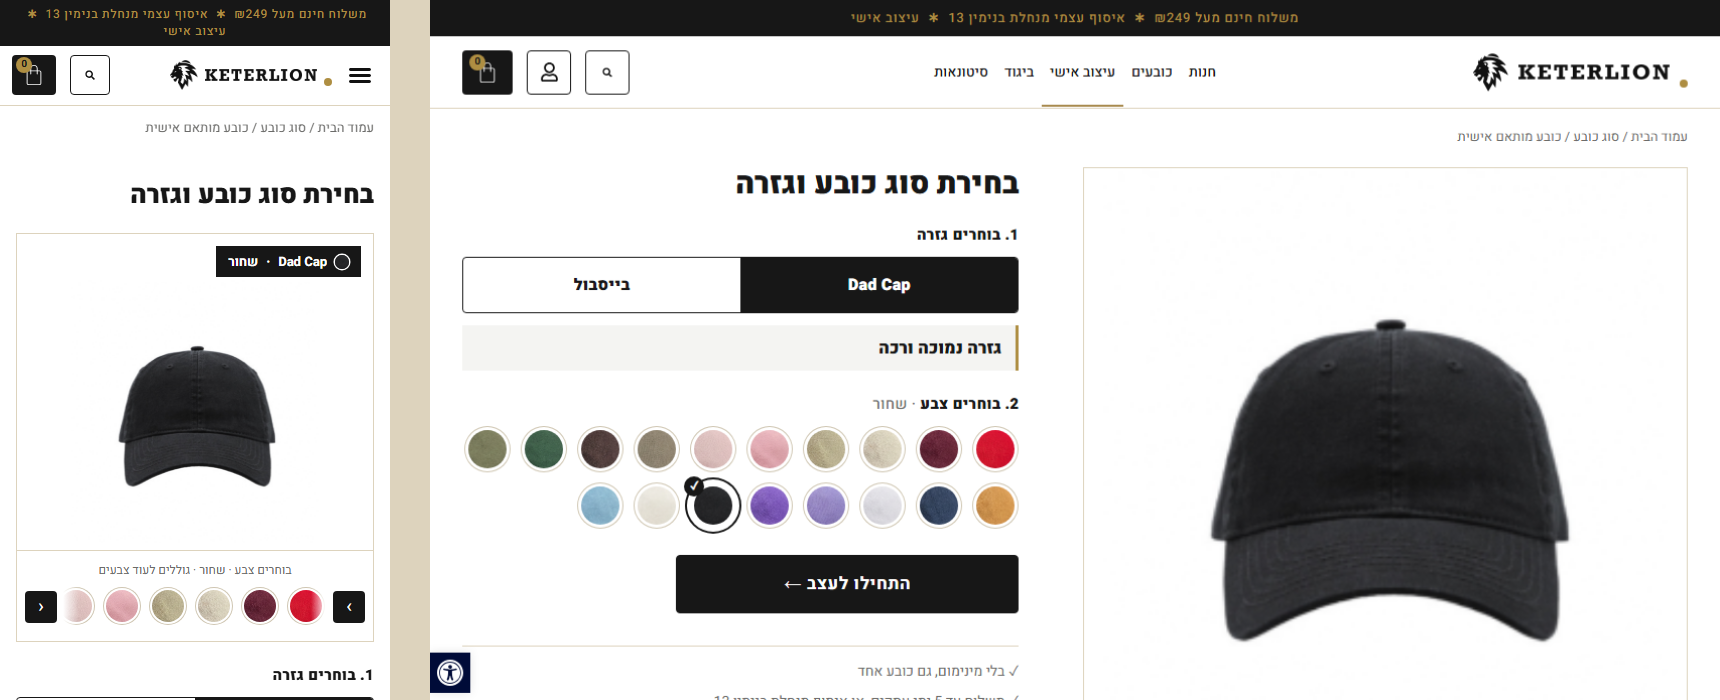
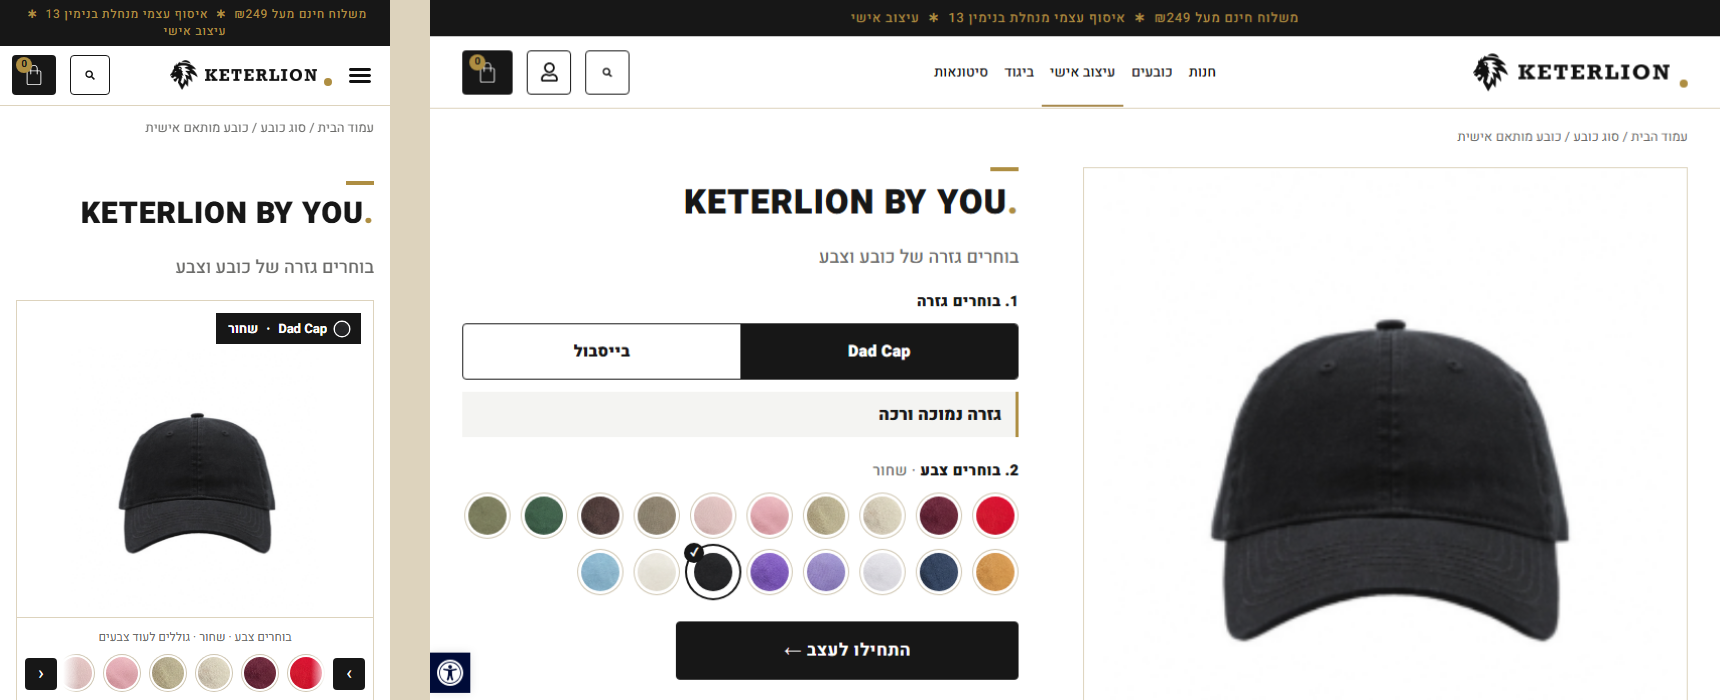
Live site: custom design page heading KETERLION BY YOU with a gold bar and dot, and a grey line under it

diff --git a/snippets/kl-custom-picker.css b/snippets/kl-custom-picker.css
@@ -66,6 +66,9 @@ body:has(#zakeke-container) .klp-bar{display:none}
   .kl-picker .klp-arr.prev{right:8px}
   .kl-picker .klp-arr.next{left:8px}
 }
-/* 4.11.2026: the page heading is one line, "בחירת סוג כובע וגזרה" (paragraph d398253; the line under it, 64d5cb7, was deleted) */
-.elementor-22544 [data-id="d398253"]{font-family:Heebo,sans-serif;font-size:30px !important;font-weight:900 !important;line-height:1.15 !important;color:#171717 !important;letter-spacing:0 !important;text-transform:none !important;margin:0 0 6px !important}
-@media (max-width:767px){.elementor-22544 [data-id="d398253"]{font-size:26px !important}}
+/* 4.11.2026: page heading "KETERLION BY YOU." with a gold bar and dot (d398253), and one grey line under it (ddf51d2) */
+.elementor-22544 [data-id="d398253"]{font-family:Heebo,sans-serif !important;font-size:34px !important;font-weight:900 !important;letter-spacing:.03em !important;line-height:1.05 !important;direction:ltr;text-align:right;color:#171717 !important;text-transform:none !important;margin:0 0 8px !important}
+.elementor-22544 [data-id="d398253"]::before{content:"";display:block;width:28px;height:4px;background:#AE8E42;margin:0 0 14px auto}
+.elementor-22544 [data-id="d398253"]::after{content:".";color:#AE8E42}
+.elementor-22544 [data-id="ddf51d2"]{font-family:Heebo,sans-serif !important;font-size:18px !important;font-weight:500 !important;line-height:1.4 !important;color:#6B6B69 !important;letter-spacing:0 !important;text-transform:none !important;margin:0 0 4px !important}
+@media (max-width:767px){.elementor-22544 [data-id="d398253"]{font-size:30px !important}}

diff --git a/STATUS.md b/STATUS.md
@@ -135,10 +135,13 @@
     - הועלתה כ-kl-baseball-black.png (25218), והוגדרה לווריאציה 23336 (בייסבול + שחור). התמונה הקודמת: 22634
     - בכלי של Zakeke לא שיניתי כלום (ההגדרות שלו משותפות)
     - הסקריפט: mockups/custom-page/make-black.ps1
-- **✅ כותרת עמוד העיצוב (4.11, לבקשתך: "להוריד את כל הכיתוב ולכתוב רק בחירת סוג כובע וגזרה"):**
-  - "KETERLION BY YOU" (d398253) הוחלף ב"בחירת סוג כובע וגזרה", ככותרת מודגשת (Heebo 900, בגודל 30 במחשב ו-26 בטלפון)
-  - השורה "בוחרים כובע וצבע, ואנחנו רוקמים בתל אביב את מה שבראש שלכם." (64d5cb7) נמחקה
-  - גיבוי: localStorage kl-bak-22544-0411title
+- **✅ כותרת עמוד העיצוב (4.11, בשני שלבים):**
+  - **שלב ראשון, לבקשתך:** "להוריד את כל הכיתוב ולכתוב רק בחירת סוג כובע וגזרה". השורה "בוחרים כובע וצבע, ואנחנו רוקמים בתל אביב את מה שבראש שלכם." (64d5cb7) נמחקה
+  - **שלב שני, אחרי שחזרת בך:** "תכתוב למעלה מעוצב יפה KETERLION BY YOU ואז בוחרים גזרה של כובע וצבע". ההדמיה אושרה ("כן, לשים"), וזה מה שבאתר עכשיו:
+    - פס זהב קצר
+    - "KETERLION BY YOU." גדול ומודגש (d398253), Heebo 900 בגודל 34 במחשב ו-30 בטלפון, עם נקודה בזהב
+    - מתחתיו "בוחרים גזרה של כובע וצבע" (ddf51d2, העתק של אותה פסקה), באפור, Heebo 500 בגודל 18
+  - גיבויים: localStorage kl-bak-22544-0411title ו-kl-bak-22544-0411title2
   - נבדק כאורח בטלפון ובמחשב. המטמון נוקה בסדר החדש: קודם CSS/JS ואחר כך הכול. קובץ ה-CSS המאוחד נטען עם 200
 - **סדר ניקוי המטמון (4.11, לפי ממצא של שיחת המהירות):** בערך ב-16:00 עמוד "כובע חי" נטען לשתי דקות בלי עיצוב. ניקיתי קודם "הכול" ואחר כך "CSS/JS", ובינתיים נשמר עמוד שהצביע לקובץ CSS שכבר נמחק. מעכשיו מנקים קודם CSS/JS, אחר כך הכול, ובסוף בודקים עמוד אחד כאורח
 - **מחכה להחלטה שלך:**
